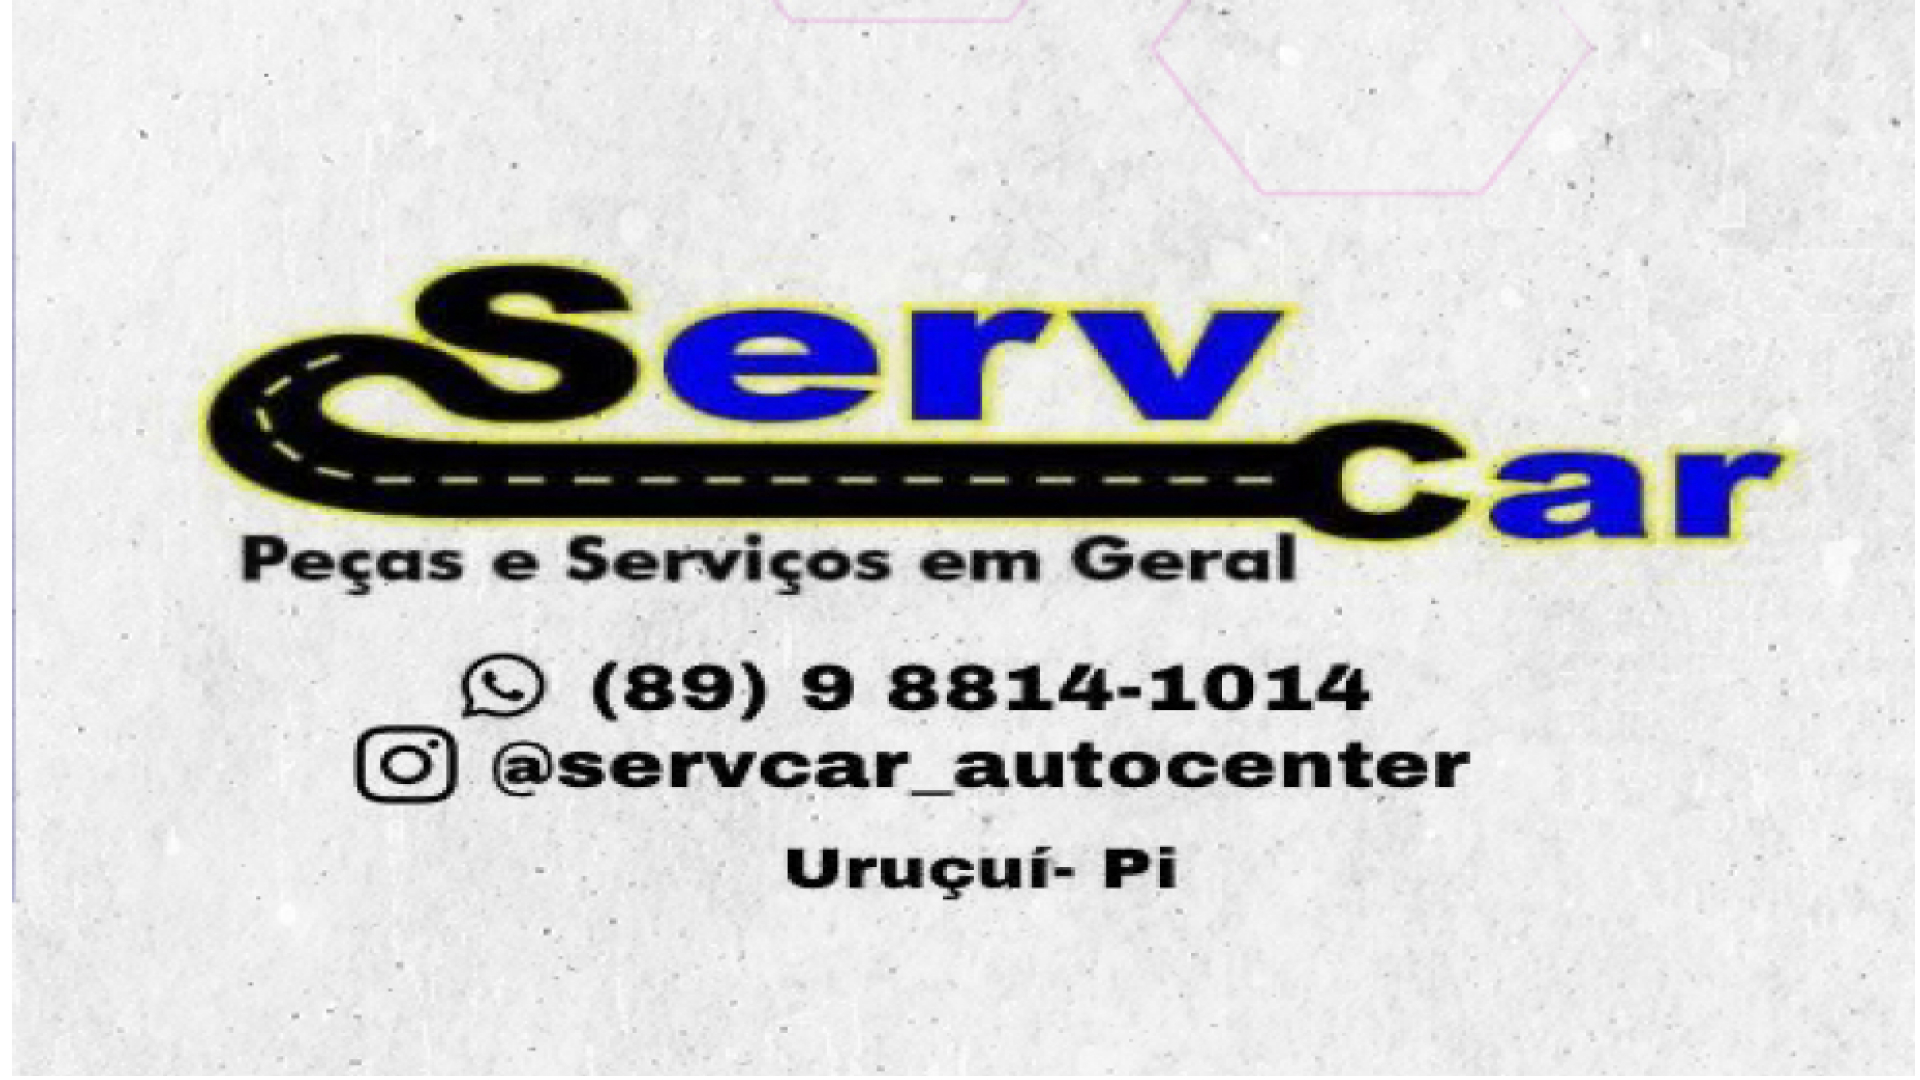
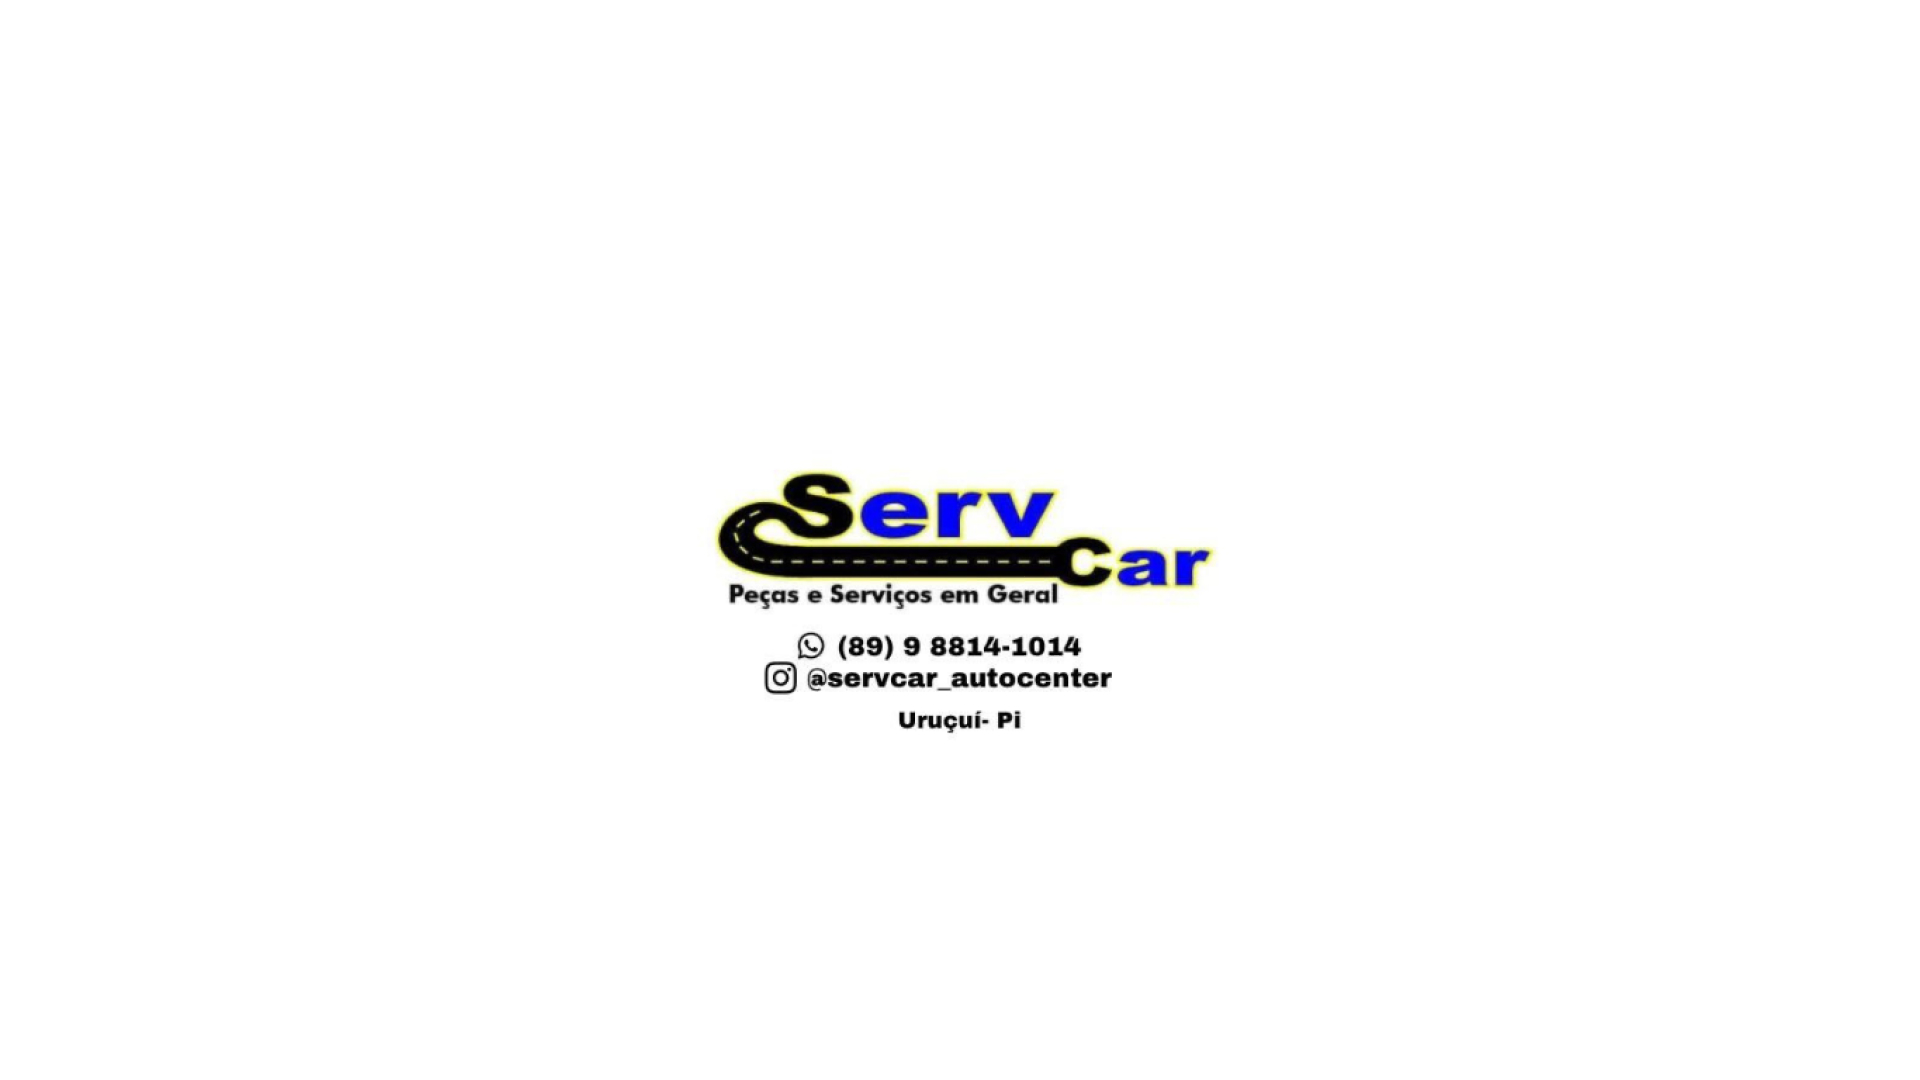
add sponsors

diff --git a/index.html b/index.html
@@ -72,10 +72,6 @@
             <img src="src/assets/caisTech2023/carrosel/knn.jpg" alt="">
           </div>
 
-          <!-- <div class="swiper-slide">
-            <img src="src/assets/caisTech2023/patrocinadores/Arte_patrocinio_servicar_feed.jpg" alt="">
-          </div> -->
-
           <div class="swiper-slide">
             <img src="src/assets/caisTech2023/carrosel/Fome.jpg" alt="">
           </div>
@@ -94,6 +90,14 @@
 
           <div class="swiper-slide">
             <img src="src/assets/caisTech2023/carrosel/Virtex.jpg" alt="">
+          </div>
+
+          <div class="swiper-slide">
+            <img src="src/assets/caisTech2023/patrocinadores/vittry_store.png" alt="">
+          </div>
+
+          <div class="swiper-slide">
+            <img src="src/assets/caisTech2023/patrocinadores/Arte_patrocinio_servicar_feed.jpg" alt="">
           </div>
 
         </div>
@@ -490,9 +494,9 @@
             <div class="day-box">
               <div class="profile-box">
                 <div class="avatar">
-                  <img src="src/assets/caisTech2023/palestrantes/elane e vanessa.webp" alt="" />
+                  <img src="src/assets/caisTech2023/palestrantes/jvn.png" alt="" />
                 </div>
-                <h3>ELANE SARAIVA E VANESSA VELOSO</h3>
+                <h3>ELANE SARAIVA, JUSTINO SANTOS E VANESSA VELOSO</h3>
               </div>
               <div class="info-box">
                 <div class="type">
@@ -500,10 +504,15 @@
                 </div>
                 <span>14:00 - 17:00</span>
                 <h3>Organize sua equipe (máximo 2 amigos) para participar dessa maratona de programação.</h3>
-                <p>
-                  <button id="open" class="px-5 py-2 bg-[#6e25ce]  hover:bg-[#1fc47a] text-white cursor-pointer font-semibold rounded-md uppercase">
-                    <a class="" href="https://forms.gle/fS1L6BAmWXLvgVLR8" target="_blank">Participar</a>
-                </button>
+                <p class="no-underline">
+                  <a 
+                    class="px-5 py-2 bg-[#6e25ce]  hover:bg-[#1fc47a] text-white cursor-pointer font-semibold rounded-md uppercase  no-underline"
+                    href="https://forms.gle/fS1L6BAmWXLvgVLR8" 
+                    target="_blank"
+                  >
+                    Participar
+                  </a>
+
                 </p>
               </div>
             </div>
